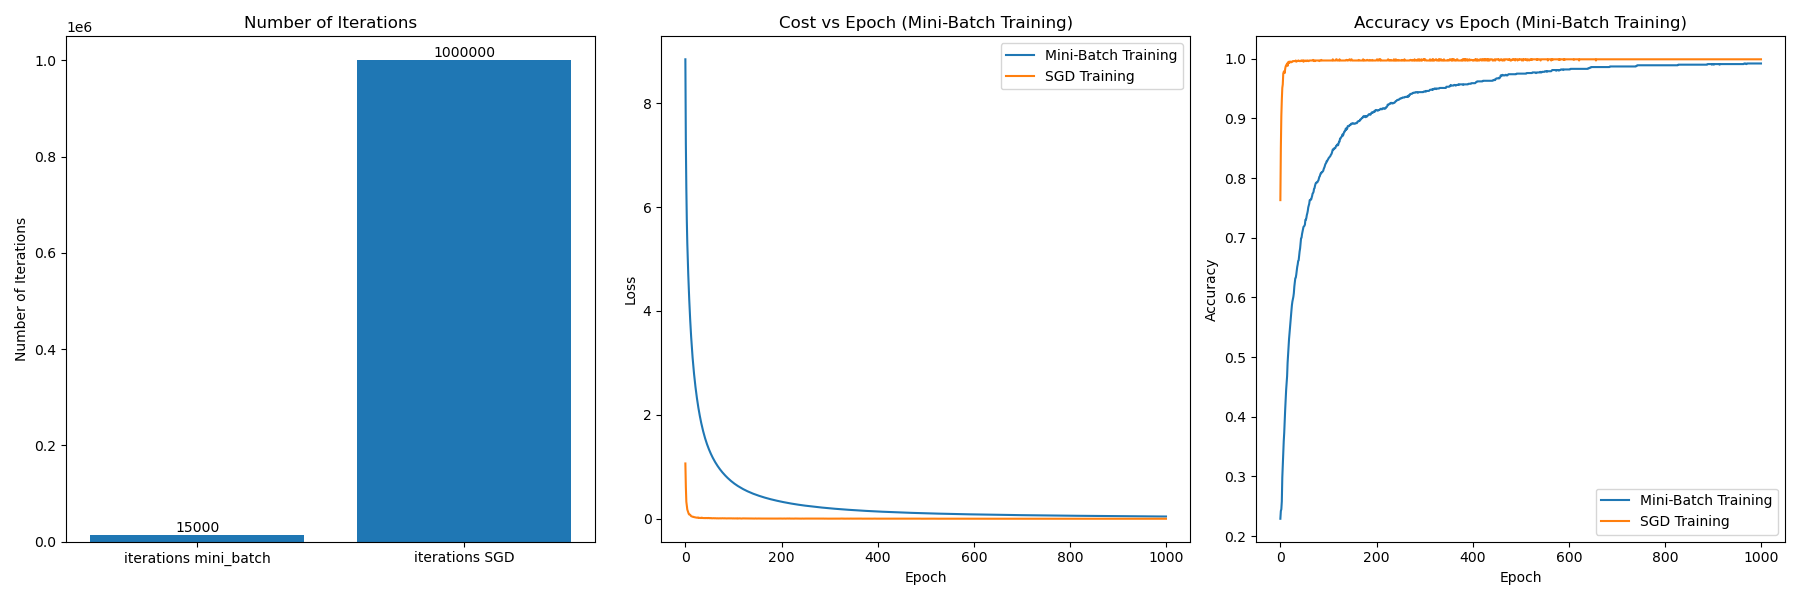
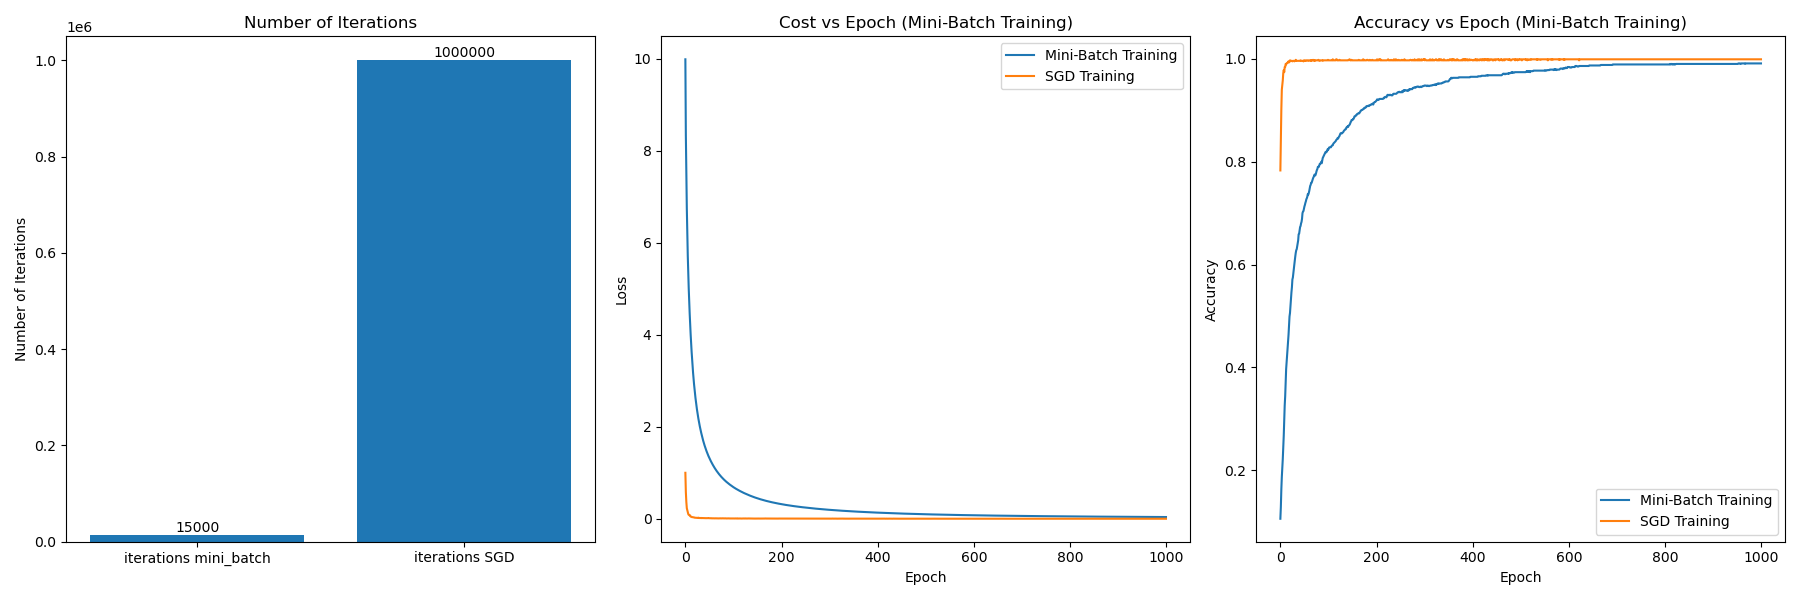
improved code

diff --git a/helper.py b/helper.py
@@ -74,40 +74,18 @@ def minibatch_train(X, Y, model, train_flag=False):
     
     
     if train_flag:
+        loss_minibatch, acc_minibatch, iter_minibatch = batch_train(X, Y, model, 
+                                                        train_flag=True, batch_size=64)
+        
+        
+        #create another new model (with not trained weights)for SGD and train
         SGD_model = NeuralNetwork(model.input_size, model.hidden_size, 
                                   model.num_classes, model.seed)
         
         loss_SGD, acc_SGD, iter_SGD = batch_train(X, Y, SGD_model, 
                                                         train_flag=True, batch_size=1)
+        #---------------------------------------------------------------------
         
-        loss_to_print = []
-        acc_to_print = []
-        iter_minibatch = 0
-        for i in range(1000):
-            #Calculating gradient with backpropagation and uploading weights
-            #with minibatch
-            for minibatch in create_minibatch(X, Y, batch_size=64):
-                iter_minibatch += 1
-                minibatch_X, minibatch_Y = minibatch
-                dW1, dW2 = model.backward(minibatch_X, minibatch_Y)
-                model.W1 -= 0.005 * dW1 #for hidden layer
-                model.W_out -= 0.005 * dW2 #for ouput layer
-
-            #Computing metrics for evaluation
-            #Computing loss
-            H, O = model.forward(X)
-            loss = compute_loss(O, Y)
-            #Computing accuracy
-            preds = model.predict(X)
-            num_columns = Y.shape[1]
-            equal_columns = [1 for index in range(num_columns) 
-                             if np.all(preds[:, index] == Y[:, index], axis=0)]
-            accuracy = np.sum(equal_columns) / num_columns
-            
-            loss_to_print.append(loss)
-            acc_to_print.append(accuracy)
-            
-            print(f'epoch {i+1}: model loss {loss}, model accuracy {accuracy}')
         
         plt.figure(figsize=(18, 6))
         
@@ -122,7 +100,7 @@ def minibatch_train(X, Y, model, train_flag=False):
         
 
         plt.subplot(1, 3, 2)
-        plt.plot(loss_to_print, label='Mini-Batch Training')
+        plt.plot(loss_minibatch, label='Mini-Batch Training')
         plt.plot(loss_SGD, label='SGD Training')
         plt.xlabel('Epoch')
         plt.ylabel('Loss')
@@ -131,7 +109,7 @@ def minibatch_train(X, Y, model, train_flag=False):
         
 
         plt.subplot(1, 3, 3)
-        plt.plot(acc_to_print, label='Mini-Batch Training')
+        plt.plot(acc_minibatch, label='Mini-Batch Training')
         plt.plot(acc_SGD, label='SGD Training')
         plt.xlabel('Epoch')
         plt.ylabel('Accuracy')
